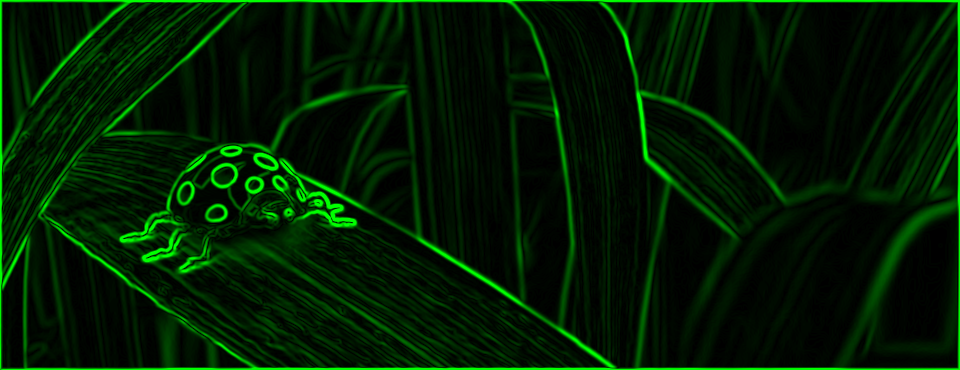
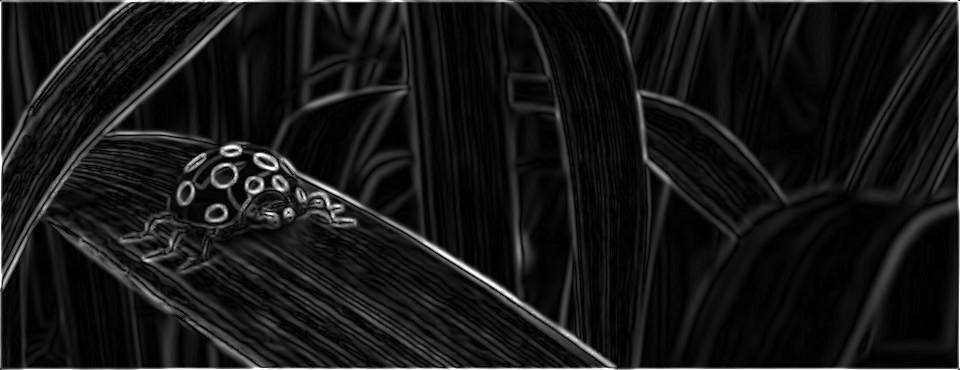
Added improved command line interface.

diff --git a/Image_Edge_Detection/main.cpp b/Image_Edge_Detection/main.cpp
@@ -1,12 +1,78 @@
-#include "image.h"
+
 #include <iostream>
 #include <math.h>
+#include <getopt.h>
+#include <string.h>
+
+#include "image.h"
 #include "object_detector.h"
+
+static Color channel = monochrome;
+static char* file = "test.png";
+static char output[256];
+
+static void set_config(int argc, char* argv[])
+{
+    int option_index;
+    static struct option options[] =
+    {
+        {"green",   no_argument,       0, 'g'},
+        {"red",     no_argument,       0, 'r'},
+        {"blue",    no_argument,       0, 'b'},
+        {"file",    required_argument, 0, 'f'},
+        {0, 0, 0, 0}
+    };
+
+    while ((option_index = getopt_long(argc, argv, "rgbf:", options, NULL)) != -1)
+    {
+        switch (option_index){
+            case 'g':
+                channel = green;
+                break;
+            case 'r':
+                channel = red;
+                break;
+            case 'b':
+                channel = blue;
+                break;
+            case 'f':
+                file = optarg;
+                break;
+            default:
+                std::cout<< "\nInvalid option. Program exiting.\n";
+                exit(EXIT_FAILURE);
+                break;
+        }
+    }
+}
+
+static void filename_append(char* file, char* append, char* retval)
+{
+    int length = strlen(file) + strlen(append) + 1;
+    char end[length];
+    int state, index;
+
+    strcpy(retval, file);
+    for (index = 0; index<length; index++)
+    {
+        if (retval[index] == '.')
+        {
+            retval[index] = 0;
+            strcpy(end, &retval[index+1]);
+            strcat(retval, append);
+            strcat(retval, ".");
+            strcat(retval, end);
+            break;
+        }
+        else if (!retval[index])
+        {
+            break;
+        }
+    }
+}
 
 int main(int argc, char* argv[])
 {
-	Color channel = green;
-	char* file = "test.png";
 	Image* my_png = new Image();
 	Object_Detector* my_object_detector = new Object_Detector(my_png);
 
@@ -17,26 +83,31 @@ int main(int argc, char* argv[])
 	if (decoded)
 	{
 		my_png->Apply_Gauss_Filter5();
-
-		my_png->Encode_To_Disk("testxGauss5.png");
-
+        filename_append(file, "_gauss", output);
+		my_png->Encode_To_Disk(output);
 		std::cout<< "Gauss Filter Applied.\n";
 
 		my_png->Calculate_Differential_Intensity(channel);
-
-		my_png->Encode_To_Disk("testxB5.png");
+        filename_append(file, "_diff", output);
+		my_png->Encode_To_Disk(output);
+        std::cout<< "Differential Intensity Calculated.\n";
 
 		my_png->Calculate_Angular_Intensity(channel);
+        filename_append(file, "_angle", output);
+		my_png->Encode_To_Disk(output);
+        std::cout<< "Angular Intensity Calculated.\n";
 
-		my_png->Apply_Threshold(89);
-
-		my_png->Encode_To_Disk("threshold.png");
+        my_png->Apply_Threshold(89);
+        filename_append(file, "_threshold", output);
+		my_png->Encode_To_Disk(output);
+		std::cout<< "Threshold Applied.\n";
 
 		my_object_detector->Initialize();
 		my_object_detector->Determine_Edges();
 		my_object_detector->Determine_All_Disconected_Graphs();
-
-		my_png->Encode_To_Disk("edges.png");
+        filename_append(file, "_disconnected", output);
+		my_png->Encode_To_Disk(output);
+		std::cout<< "Disconnected Graphs Detected.\n";
 
 		my_png->Discard_Image();
 
